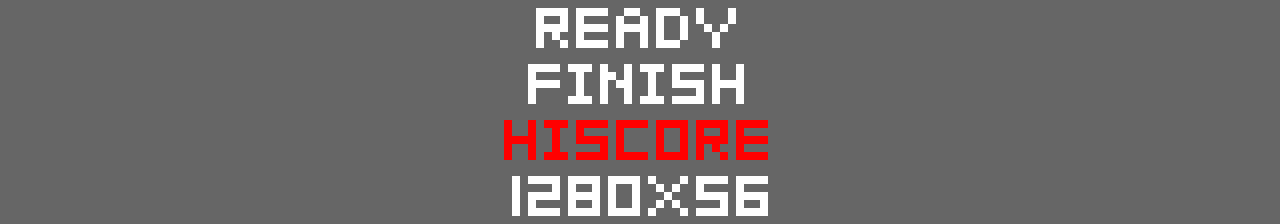
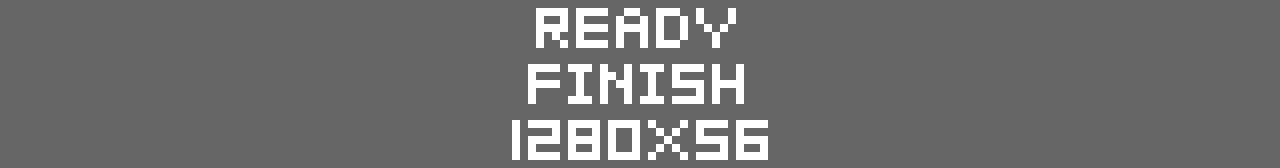
ランキングのハイスコア更新にSE追加

Changed region(s): [[0.375, 0.0298, 0.625, 0.9821]]

diff --git a/Speedplusplus/src/Task_GameMessage.cpp b/Speedplusplus/src/Task_GameMessage.cpp
@@ -11,7 +11,7 @@ namespace GameMessage
 	Resource::Resource()
 	{
 		imageName = "MessageImg";
-		Image::imageLoader.LoadDivImage(imageName, "data/image/GameMessage.png", 3, 1, 3, 1280, 56);
+		Image::imageLoader.LoadDivImage(imageName, "data/image/GameMessage.png", 2, 1, 2, 1280, 56);
 		imageData = Image::imageLoader.GetImageData(imageName);
 	}
 	//----------------------------------------------
